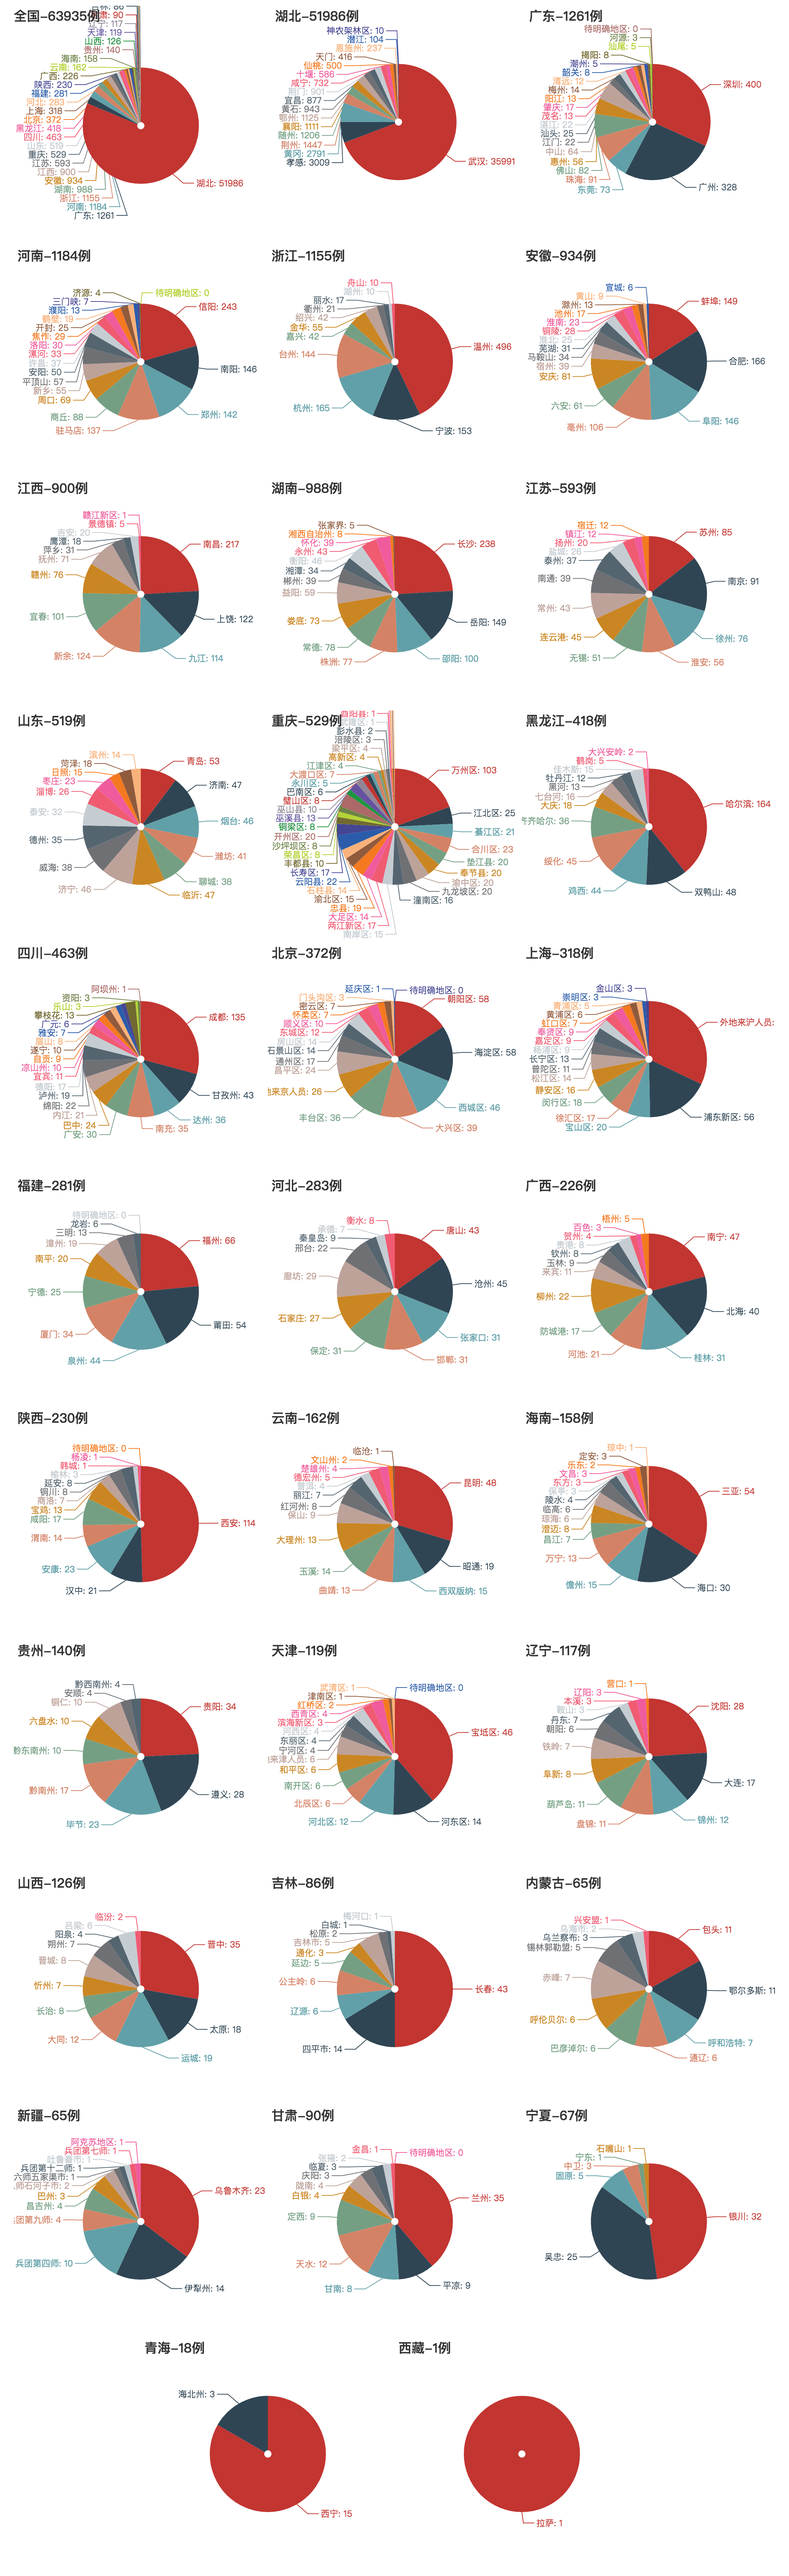
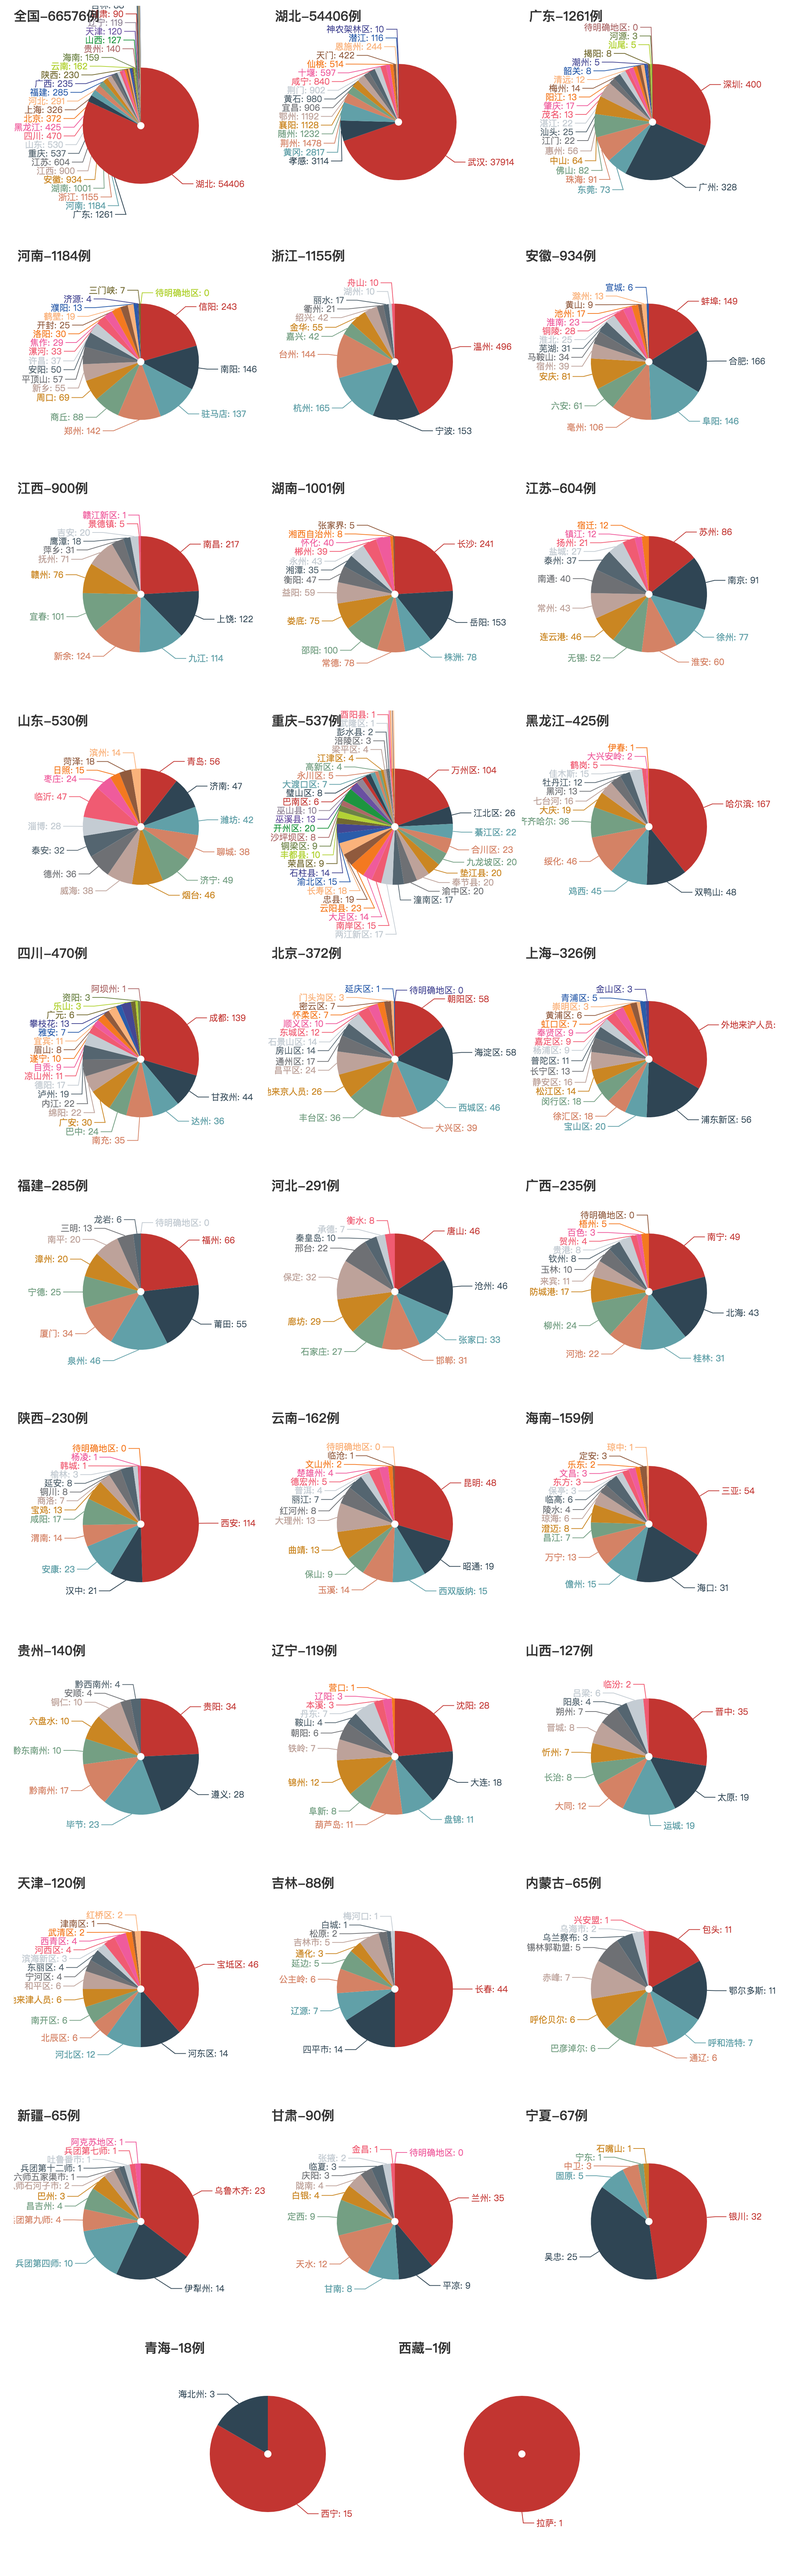
update result

diff --git a/main.py b/main.py
@@ -93,11 +93,11 @@ def get_html(month, day):
 def draw_tendency(month, day):
     dates = ['1-22', '1-23', '1-24', '1-25', '1-26', '1-27', '1-28',
              '1-29', '1-30', '1-31', '2-01', '2-02', '2-04', '2-05', '2-06', '2-07', '2-08', '2-09', '2-10', '2-11',
-             '2-12', '2-13']
+             '2-12', '2-13', '2-14']
     v0 = [131, 259, 444, 688, 769, 1771, 1459, 1737, 1982, 2102, 2590, 2829, 3235, 3887, 3143, 3399, 2656, 3062, 2478,
-          2015, 15152, 5090]
+          2015, 15152, 5090, 2641]
     v1 = [69, 105, 180, 323, 371, 1291, 840, 1032, 1220, 1347, 1921, 2103, 2345, 3156, 2447, 2841, 2147, 2618, 2097,
-          1638, 14840, 4823]
+          1638, 14840, 4823, 2420]
     v2 = [v0[i] - v1[i] for i in range(len(v0))]
     print(v2)
     c = (
@@ -252,8 +252,8 @@ def draw_multiple_pie(month, day):
 
 
 if __name__ == '__main__':
-    m, d = 2, 14
+    m, d = 2, 15
     # get_html(m, d)
     draw_tendency(m, d)
-    # draw_multiple_pie(m, d)
-    # draw_multiple_map(m, d)
+    draw_multiple_pie(m, d)
+    draw_multiple_map(m, d)

diff --git a/README.md b/README.md
@@ -18,6 +18,7 @@
 - 更新：2020.2.12 08:40 湖北省新增确诊骤降啊！
 - 更新：2020.2.13 09:11 湖北省的确诊标准变了，新增病例骤增了1w5，但愿这是更多人能得到及时治疗的好预兆
 - 更新：2020.2.14 12:19 在新标准下，湖北省的新增病例相比起昨天大幅下降了，其他省份新增确诊持续减少。
+- 更新：2020.2.15 09:16 这几天的下降速度真的很喜人诶。
 
 # 全国/各省份疫情地图
 ![image](https://github.com/shadow12138/WuHanGanBaDei/blob/master/result/r1.png)
